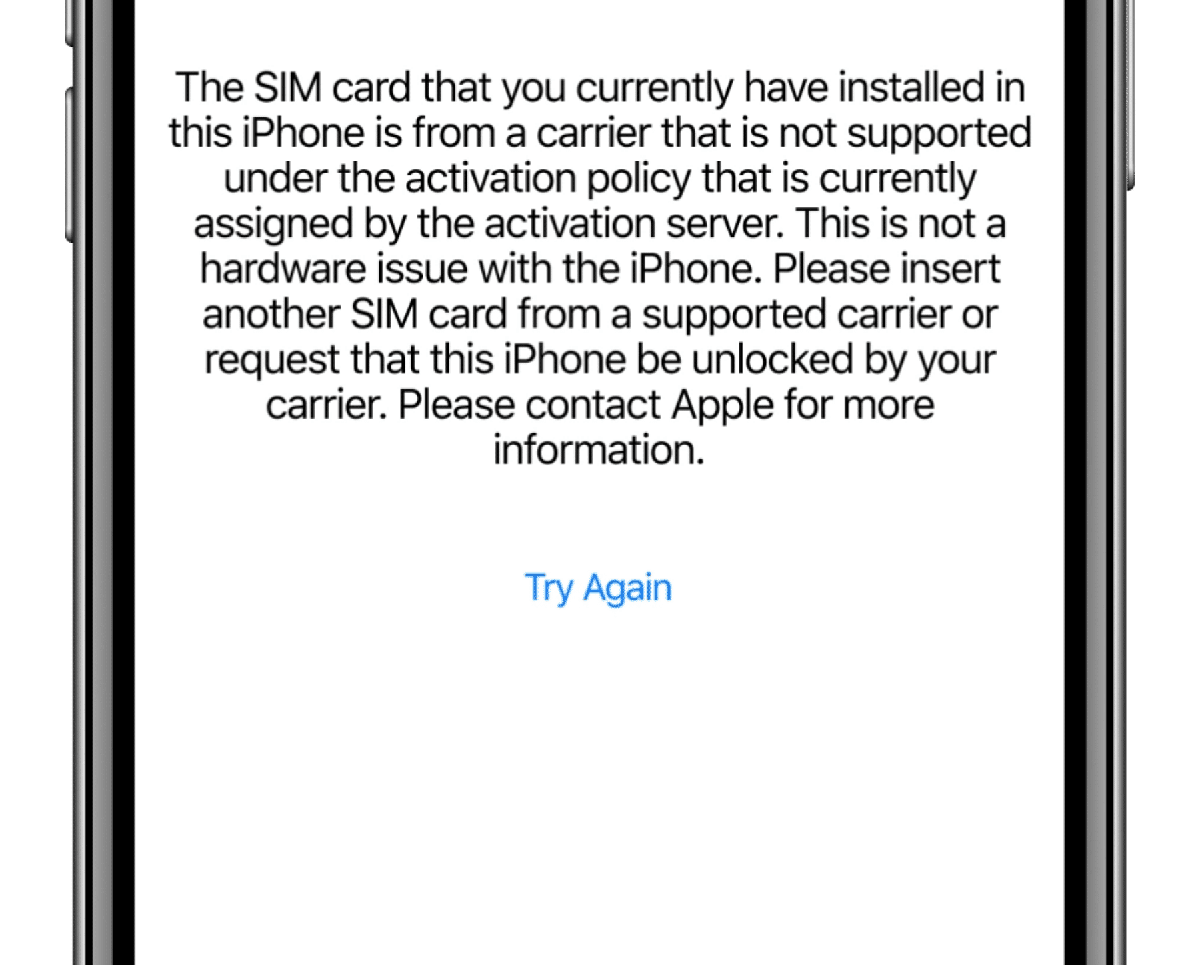
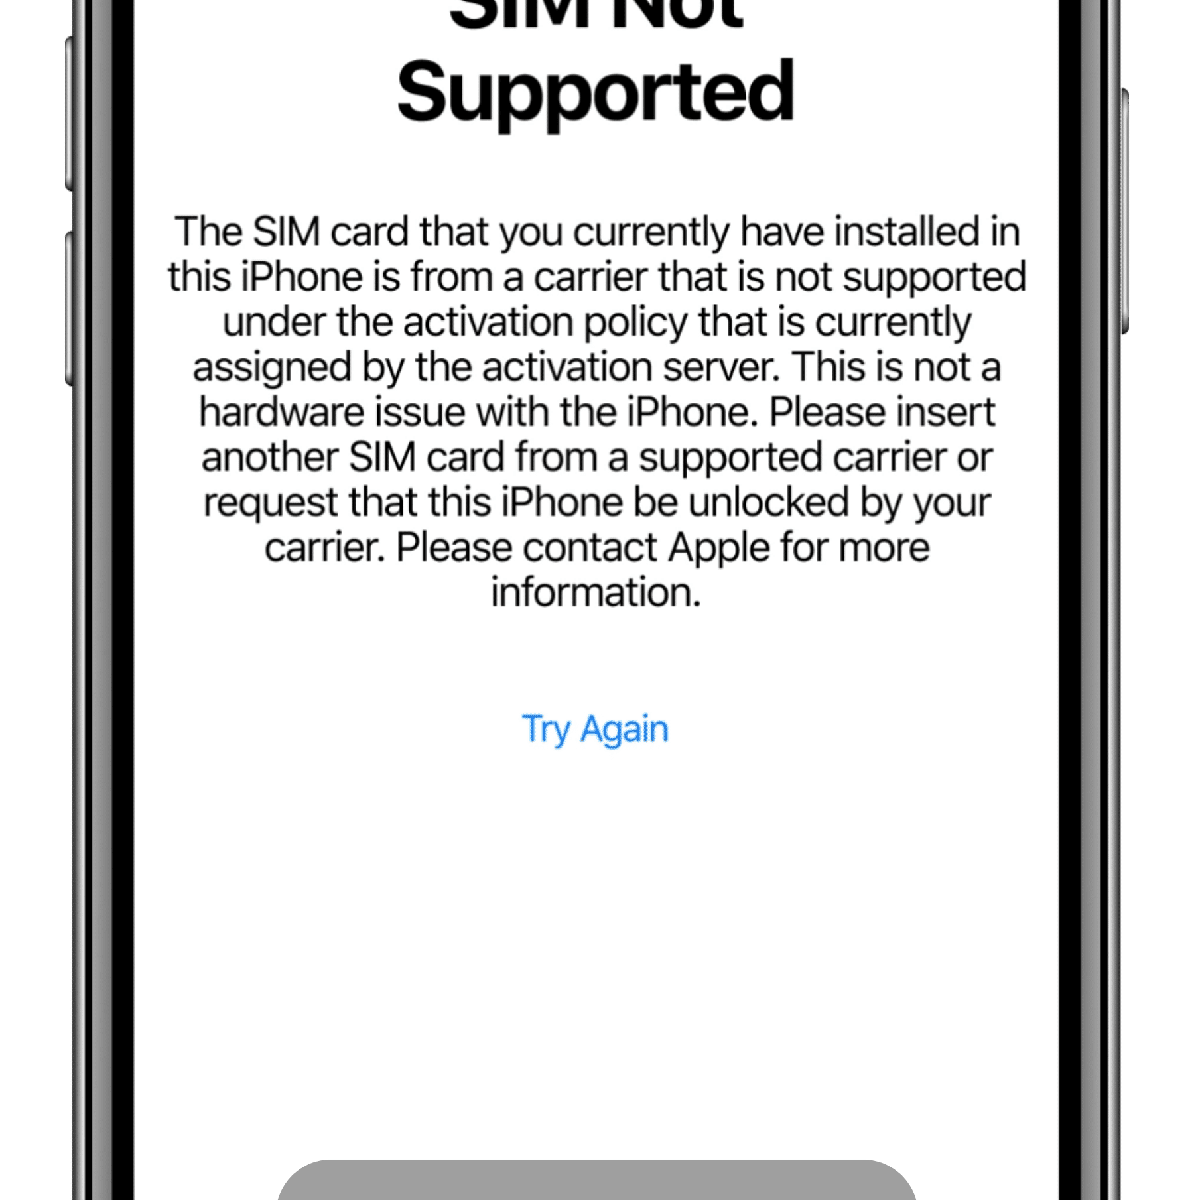
Deploy premium responsive outreach site

diff --git a/styles.css b/styles.css
@@ -657,6 +657,13 @@ h1, h2, h3, h4 {
     color: #ffffff;
 }
 
+.phone-unlock-hero {
+    background-size: contain !important;
+    background-repeat: no-repeat !important;
+    background-position: right 10% center !important;
+    background-color: #0a0a0a !important;
+}
+
 .service-hero h1 {
     font-size: 3.5rem;
     color: #ffffff;
@@ -1274,7 +1281,8 @@ h1, h2, h3, h4 {
     
     /* Phone Unlocking Hero Position Adjust (Checklist Issue 4) */
     .phone-unlock-hero {
-        background-position: center 20% !important;
+        background-size: cover !important;
+        background-position: center 25% !important;
     }
     
     /* Expand buttons on mobile */